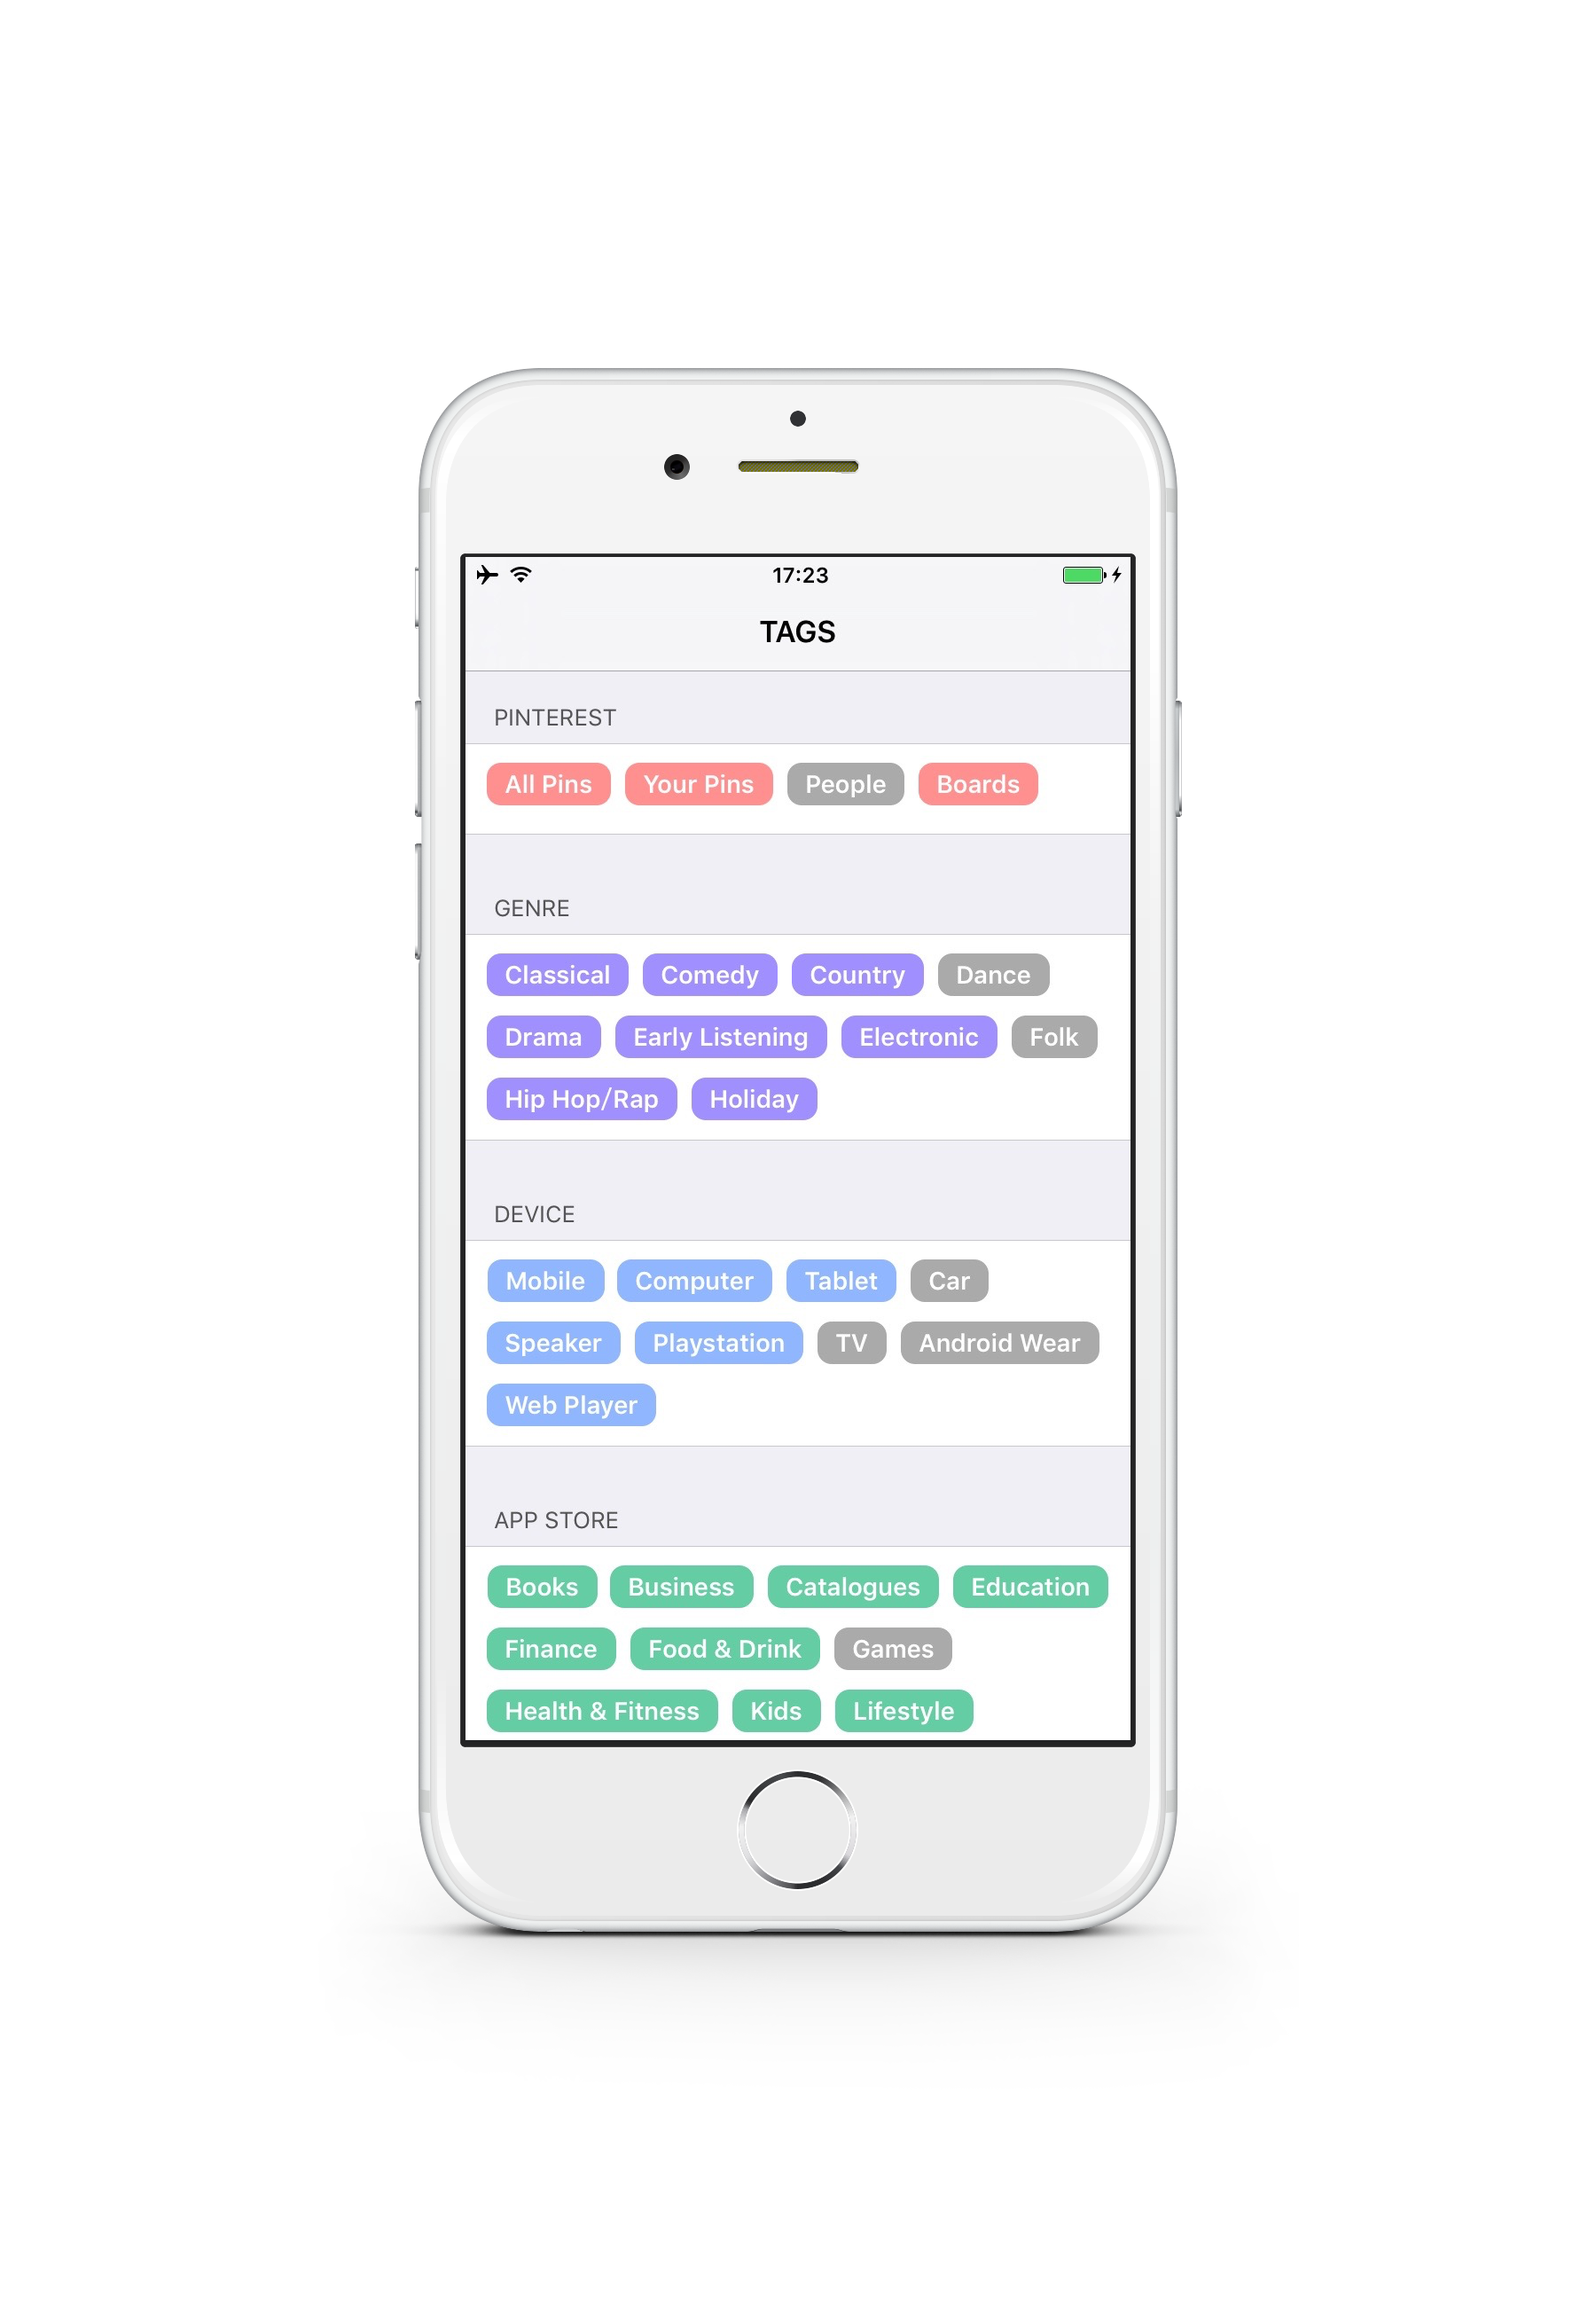
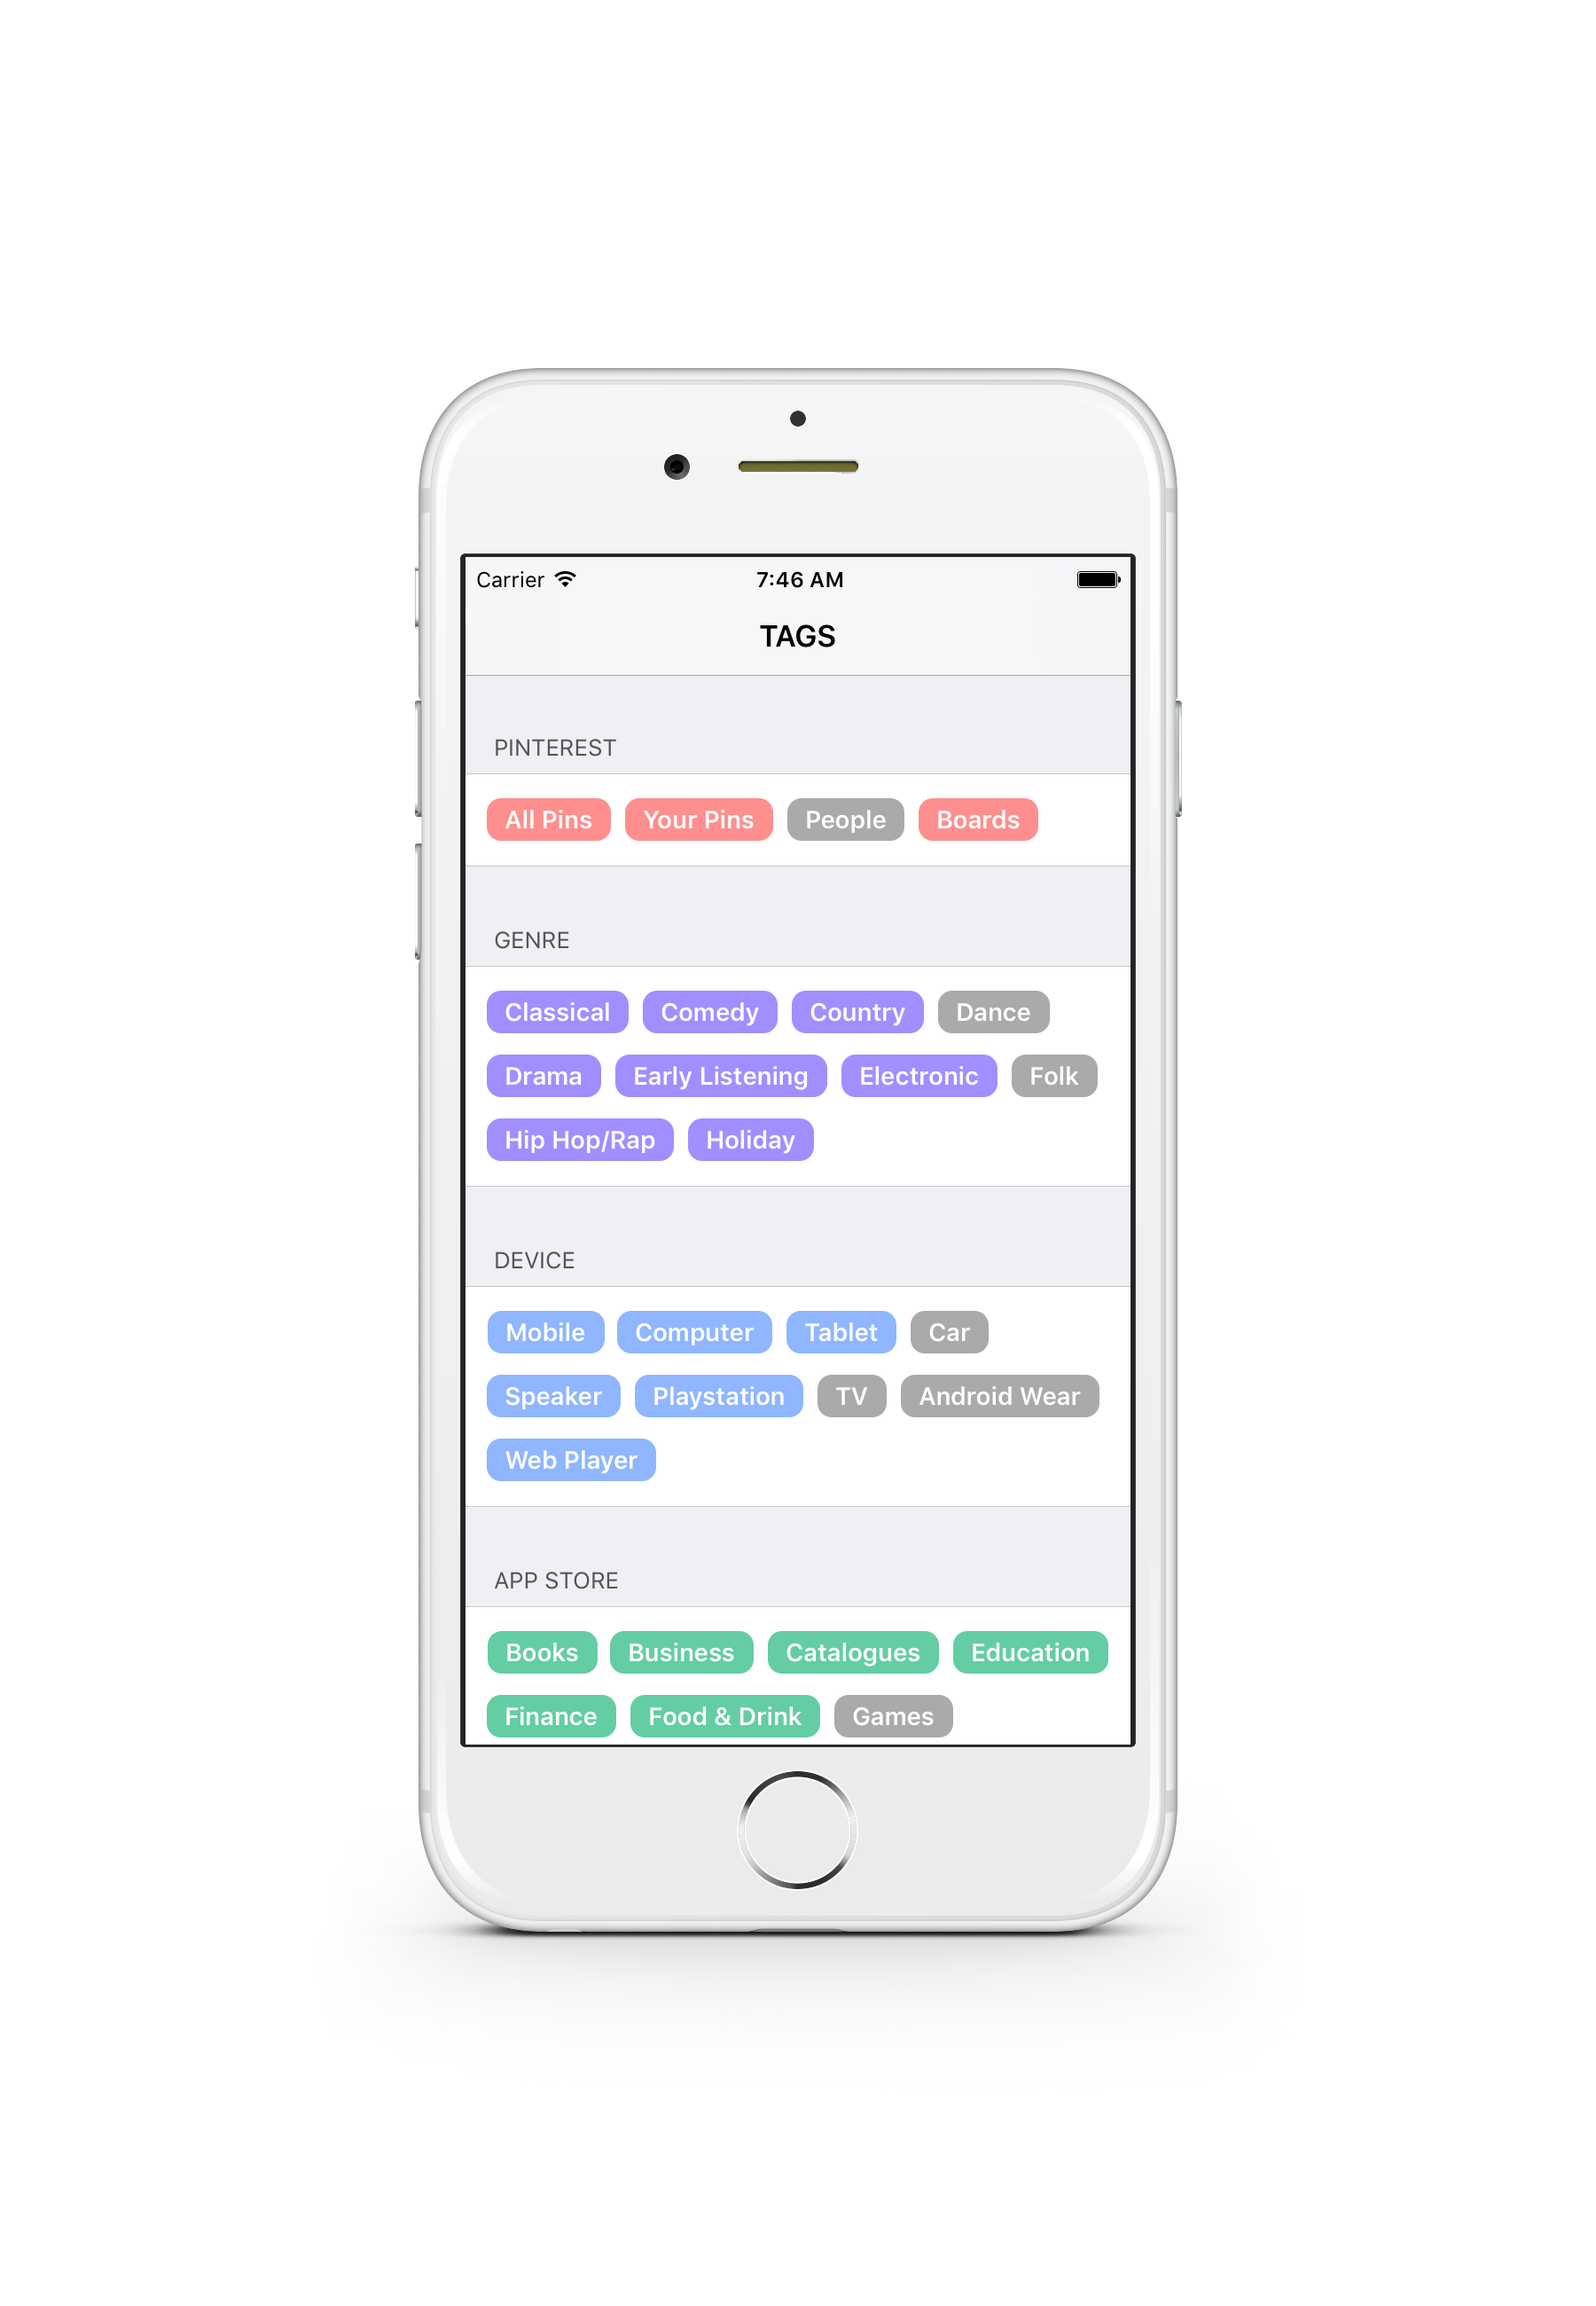
Address the issue: Tags in the single row example are not vertical centered #8
``paragraphStyle.lineSpacing = 5.0;`` doesn't work well in the single
row.

Changed region(s): [[0.28, 0.3115, 0.7156, 0.7788], [0.4667, 0.2492, 0.5289, 0.2804]]

diff --git a/Swift/AutomaticHeightTagTableViewCell/Views/AHTagView.swift b/Swift/AutomaticHeightTagTableViewCell/Views/AHTagView.swift
@@ -68,14 +68,14 @@ class AHTagView: UIView {
                                               toItem: self,
                                               attribute: .top,
                                               multiplier: 1,
-                                              constant: 3))
+                                              constant: 6))
         constraints.append(NSLayoutConstraint(item: self,
                                               attribute: .bottom,
                                               relatedBy: .equal,
                                               toItem: self.label,
                                               attribute: .bottom,
                                               multiplier: 1,
-                                              constant: 3))
+                                              constant: 6))
         NSLayoutConstraint.activate(constraints)
     }
     

diff --git a/Swift/AutomaticHeightTagTableViewCell/Views/AHTagsLabel.swift b/Swift/AutomaticHeightTagTableViewCell/Views/AHTagsLabel.swift
@@ -145,11 +145,6 @@ class AHTagsLabel: UILabel {
             mutableString.endEditing()
         }
         
-        let paragraphStyle = NSMutableParagraphStyle()
-        paragraphStyle.lineSpacing = 5
-        mutableString.addAttribute(NSParagraphStyleAttributeName,
-                                   value: paragraphStyle,
-                                   range: NSRange(location: 0, length: mutableString.length))
         self.attributedText = mutableString
     }
     

diff --git a/ObjC/AutomaticHeightTagTableViewCell/Views/AHTagView.m b/ObjC/AutomaticHeightTagTableViewCell/Views/AHTagView.m
@@ -68,7 +68,7 @@
                                                            toItem:self
                                                         attribute:NSLayoutAttributeTop
                                                        multiplier:1.0
-                                                         constant:3.0]];
+                                                         constant:6.0]];
     
     [constraints addObject:[NSLayoutConstraint constraintWithItem:self
                                                         attribute:NSLayoutAttributeBottom
@@ -76,7 +76,7 @@
                                                            toItem:_label
                                                         attribute:NSLayoutAttributeBottom
                                                        multiplier:1.0
-                                                         constant:3.0]];
+                                                         constant:6.0]];
     
     [NSLayoutConstraint activateConstraints:constraints];
 }

diff --git a/ObjC/AutomaticHeightTagTableViewCell/Views/AHTagsLabel.m b/ObjC/AutomaticHeightTagTableViewCell/Views/AHTagsLabel.m
@@ -109,10 +109,6 @@
         [mutableString endEditing];
     }
     
-    NSMutableParagraphStyle *paragraphStyle = [NSMutableParagraphStyle new];
-    paragraphStyle.lineSpacing = 5.0;
-    [mutableString addAttribute:NSParagraphStyleAttributeName value:paragraphStyle range:NSMakeRange(0, mutableString.length)];
-    
     self.attributedText = mutableString;
 }
 

diff --git a/README.md b/README.md
@@ -25,7 +25,7 @@
     /* An initialization sample of AHTag with Swift 3.0 */
     let tag = AHTag(category: "Genre", 
                        title: "Classical", 
-   					   color: UIColor(red: 0.626, green: 0.56, blue: 1, alpha: 1), 
+                       color: UIColor(red: 0.626, green: 0.56, blue: 1, alpha: 1), 
                          URL: NSURL(string: "http://itunes.com"), 
                      enabled: true)
 ```
